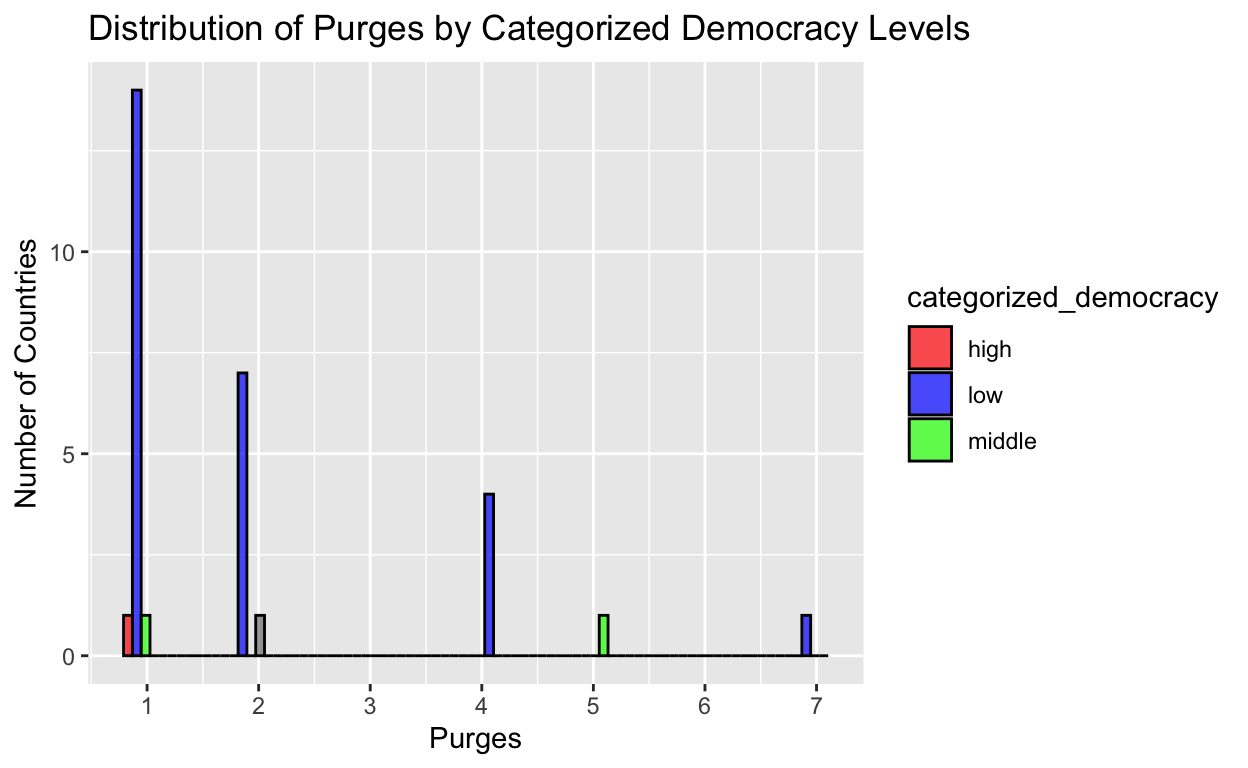
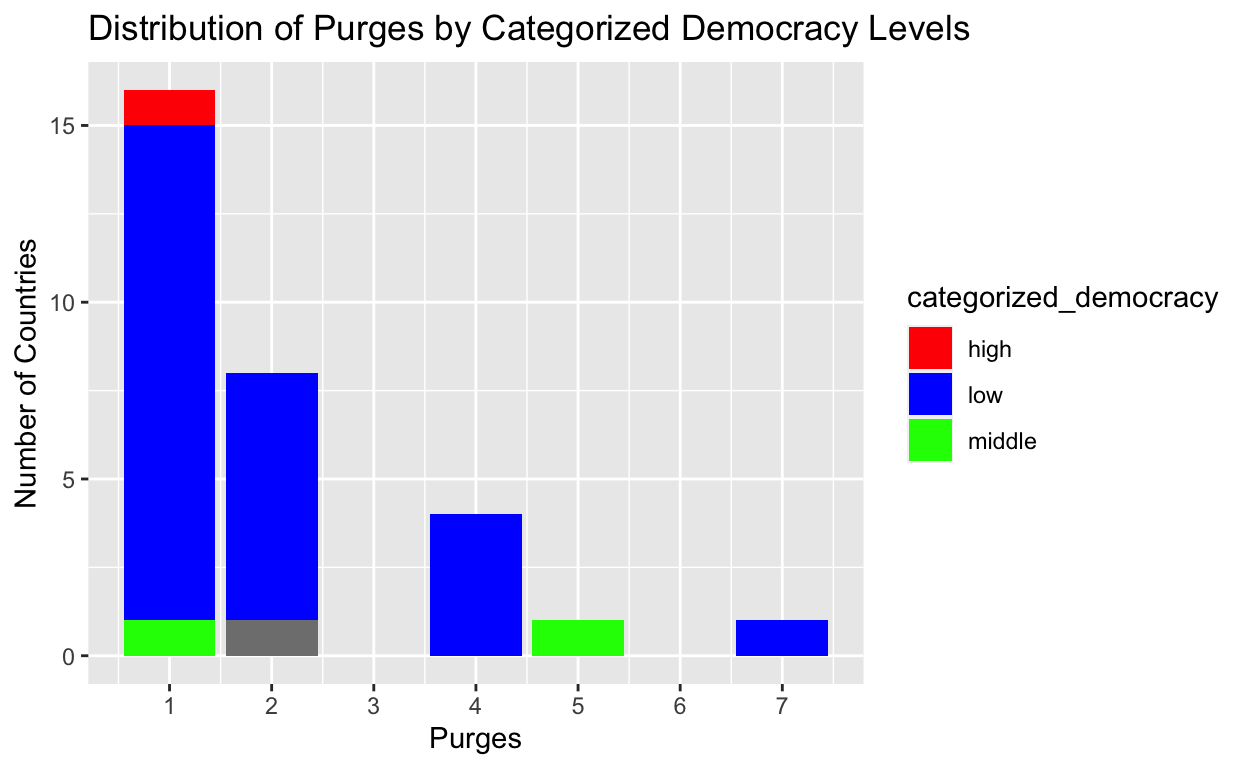
all answered

diff --git a/index.html b/index.html
@@ -115,7 +115,7 @@ code span.wa { color: #5e5e5e; font-style: italic; } /* Warning */
   <!--/radix_placeholder_rmarkdown_metadata-->
   
   <script type="text/json" id="radix-resource-manifest">
-  {"type":"character","attributes":{},"value":["index_files/anchor-4.2.2/anchor.min.js","index_files/bowser-1.9.3/bowser.min.js","index_files/distill-2.2.21/template.v2.js","index_files/figure-html5/unnamed-chunk-1-1.png","index_files/header-attrs-2.17/header-attrs.js","index_files/header-attrs-2.24/header-attrs.js","index_files/jquery-3.6.0/jquery-3.6.0.js","index_files/jquery-3.6.0/jquery-3.6.0.min.js","index_files/jquery-3.6.0/jquery-3.6.0.min.map","index_files/popper-2.6.0/popper.min.js","index_files/tippy-6.2.7/tippy-bundle.umd.min.js","index_files/tippy-6.2.7/tippy-light-border.css","index_files/tippy-6.2.7/tippy.css","index_files/tippy-6.2.7/tippy.umd.min.js","index_files/webcomponents-2.0.0/webcomponents.js"]}
+  {"type":"character","attributes":{},"value":["index_files/anchor-4.2.2/anchor.min.js","index_files/bowser-1.9.3/bowser.min.js","index_files/distill-2.2.21/template.v2.js","index_files/figure-html5/unnamed-chunk-1-1.png","index_files/figure-html5/unnamed-chunk-2-1.png","index_files/header-attrs-2.17/header-attrs.js","index_files/header-attrs-2.24/header-attrs.js","index_files/jquery-3.6.0/jquery-3.6.0.js","index_files/jquery-3.6.0/jquery-3.6.0.min.js","index_files/jquery-3.6.0/jquery-3.6.0.min.map","index_files/popper-2.6.0/popper.min.js","index_files/tippy-6.2.7/tippy-bundle.umd.min.js","index_files/tippy-6.2.7/tippy-light-border.css","index_files/tippy-6.2.7/tippy.css","index_files/tippy-6.2.7/tippy.umd.min.js","index_files/webcomponents-2.0.0/webcomponents.js"]}
   </script>
   <!--radix_placeholder_navigation_in_header-->
   <!--/radix_placeholder_navigation_in_header-->
@@ -1517,9 +1517,9 @@ code span.wa { color: #5e5e5e; font-style: italic; } /* Warning */
 </div>
 
 <div class="d-article">
-<p>##Project Proposal</p>
-<p>Does the level of democracy in a country influence its propensity for political violence? In this study I plan to explore the relationship between the level of democracy in a specific country and its engagement in political violence. I hypothesize that less democratic countries are more prone to political violence, as they are less likely to control radical political expression and violent extremists have more room to operate, potentially leading to higher levels of civil unrest, protests, and violent conflicts. When countries are democratic and free, they are safer and more prosperous as citizens are less likely to retaliate against the government since they have control over their lives and work. My sample is composed of a selection of countries from various regions and with varying degrees of democracy. The explanatory variable of interest is the level of democracy, which will be measured using the Freedom of the World Dataset (2023). F = Free, NF = Not Free, PF = Partially Free. The outcome variable is the incidence of political violence in a given country, measured as the number of purges, revolutions, riots and death from political violence. This variable is measured using the Political Violence data set (violence.csv). If there is a significant and positive correlation between lower ranges of democracy and higher rates of political violence then it would support my hypothesis as it would suggest that political violence is more common in countries that are less democratic. On the other hand, if there is no significant relationship between lower levels of democracy and higher rates of political violence, this would provide evidence against my hypothesis.</p>
-<h2 id="data-visualization">Data Visualization</h2>
+<h2 id="milestone-1-project-proposal">Milestone 1: Project Proposal</h2>
+<p>Does the level of democracy in a country influence its propensity for political violence? In this study I plan to explore the relationship between the level of democracy in a specific country and its engagement in political violence. I hypothesize that less democratic countries are more prone to political violence, as they are less likely to control radical political expression and violent extremists have more room to operate, potentially leading to higher levels of civil unrest, protests, and violent conflicts. When countries are democratic and free, they are safer and more prosperous as citizens are less likely to retaliate against the government since they have control over their lives and work. My sample is composed of a selection of countries from various regions and with varying degrees of democracy. The explanatory variable of interest is the level of democracy, which will be measured using the Political Violence data set (violence.csv). The scale of democracy is measured from 1-7 with 7 being the lowest level of democracy and 1 being the highest. The outcome variable is the incidence of political violence in a given country, measured as the number of purges, revolutions, riots and death from political violence. This variable is measured using the Political Violence data set (violence.csv). If there is a significant and positive correlation between lower ranges of democracy and higher rates of political violence then it would support my hypothesis as it would suggest that political violence is more common in countries that are less democratic. On the other hand, if there is no significant relationship between lower levels of democracy and higher rates of political violence, this would provide evidence against my hypothesis.</p>
+<h2 id="milestone-3-data-visualization">Milestone 3: Data Visualization</h2>
 <div class="layout-chunk" data-layout="l-body">
 <div class="sourceCode">
 <pre class="sourceCode r"><code class="sourceCode r"><span><span class='kw'><a href='https://rdrr.io/r/base/library.html'>library</a></span><span class='op'>(</span><span class='va'><a href='https://tidyverse.tidyverse.org'>tidyverse</a></span><span class='op'>)</span></span>
@@ -1535,22 +1535,74 @@ code span.wa { color: #5e5e5e; font-style: italic; } /* Warning */
 <span>   <span class='fu'><a href='https://dplyr.tidyverse.org/reference/mutate.html'>mutate</a></span><span class='op'>(</span>purges <span class='op'>=</span> <span class='va'>purges80</span> <span class='op'>+</span> <span class='va'>purges70</span> <span class='op'>+</span> <span class='va'>purges60</span><span class='op'>)</span></span>
 <span></span>
 <span><span class='va'>graph1</span><span class='op'>&lt;-</span> <span class='va'>violence_data</span><span class='op'>|&gt;</span></span>
-<span>  <span class='fu'><a href='https://dplyr.tidyverse.org/reference/filter.html'>filter</a></span><span class='op'>(</span><span class='va'>purges</span> <span class='op'>&gt;</span> <span class='fl'>0</span><span class='op'>)</span><span class='op'>|&gt;</span></span>
-<span>  <span class='fu'><a href='https://ggplot2.tidyverse.org/reference/ggplot.html'>ggplot</a></span><span class='op'>(</span><span class='fu'><a href='https://ggplot2.tidyverse.org/reference/aes.html'>aes</a></span><span class='op'>(</span>x <span class='op'>=</span> <span class='va'>purges</span>, fill <span class='op'>=</span> <span class='va'>categorized_democracy</span><span class='op'>)</span><span class='op'>)</span> <span class='op'>+</span></span>
-<span>  <span class='fu'><a href='https://ggplot2.tidyverse.org/reference/geom_histogram.html'>geom_histogram</a></span><span class='op'>(</span>position <span class='op'>=</span> <span class='st'>"dodge"</span>, bins <span class='op'>=</span> <span class='fl'>20</span>, color <span class='op'>=</span> <span class='st'>"black"</span>, alpha <span class='op'>=</span> <span class='fl'>0.7</span><span class='op'>)</span> <span class='op'>+</span></span>
+<span>  <span class='fu'><a href='https://dplyr.tidyverse.org/reference/filter.html'>filter</a></span><span class='op'>(</span><span class='va'>purges</span> <span class='op'>&gt;</span> <span class='fl'>0</span><span class='op'>)</span> <span class='op'>|&gt;</span></span>
+<span> <span class='fu'><a href='https://ggplot2.tidyverse.org/reference/ggplot.html'>ggplot</a></span><span class='op'>(</span><span class='fu'><a href='https://ggplot2.tidyverse.org/reference/aes.html'>aes</a></span><span class='op'>(</span>x <span class='op'>=</span> <span class='va'>purges</span>, fill <span class='op'>=</span> <span class='va'>categorized_democracy</span><span class='op'>)</span><span class='op'>)</span> <span class='op'>+</span></span>
+<span>  <span class='fu'><a href='https://ggplot2.tidyverse.org/reference/geom_bar.html'>geom_bar</a></span><span class='op'>(</span><span class='op'>)</span> <span class='op'>+</span></span>
 <span>  <span class='fu'><a href='https://ggplot2.tidyverse.org/reference/labs.html'>labs</a></span><span class='op'>(</span>title <span class='op'>=</span> <span class='st'>"Distribution of Purges by Categorized Democracy Levels"</span>,</span>
 <span>       x <span class='op'>=</span> <span class='st'>"Purges"</span>,</span>
 <span>       y <span class='op'>=</span> <span class='st'>"Number of Countries"</span><span class='op'>)</span> <span class='op'>+</span></span>
 <span>  <span class='fu'><a href='https://ggplot2.tidyverse.org/reference/scale_manual.html'>scale_fill_manual</a></span><span class='op'>(</span>values <span class='op'>=</span> <span class='fu'><a href='https://rdrr.io/r/base/c.html'>c</a></span><span class='op'>(</span><span class='st'>"low"</span> <span class='op'>=</span> <span class='st'>"blue"</span>, <span class='st'>"middle"</span> <span class='op'>=</span> <span class='st'>"green"</span>, <span class='st'>"high"</span> <span class='op'>=</span> <span class='st'>"red"</span><span class='op'>)</span><span class='op'>)</span><span class='op'>+</span></span>
 <span>  <span class='fu'><a href='https://ggplot2.tidyverse.org/reference/scale_continuous.html'>scale_x_continuous</a></span><span class='op'>(</span>breaks <span class='op'>=</span> <span class='fl'>1</span><span class='op'>:</span><span class='fl'>8</span><span class='op'>)</span></span>
-<span></span>
 <span><span class='va'>graph1</span></span></code></pre>
 </div>
-<p><img src="index_files/figure-html5/unnamed-chunk-1-1.png" width="624" /></p>
+<img src="index_files/figure-html5/unnamed-chunk-1-1.png" width="624" />
+<div class="sourceCode">
+<pre class="sourceCode r"><code class="sourceCode r"><span><span class='va'>violence_data</span> <span class='op'>|&gt;</span></span>
+<span>  <span class='fu'><a href='https://dplyr.tidyverse.org/reference/filter.html'>filter</a></span><span class='op'>(</span><span class='va'>purges</span> <span class='op'>&gt;</span> <span class='fl'>0</span><span class='op'>)</span> <span class='op'>|&gt;</span></span>
+<span>  <span class='fu'><a href='https://dplyr.tidyverse.org/reference/group_by.html'>group_by</a></span><span class='op'>(</span><span class='va'>purges</span><span class='op'>)</span> <span class='op'>|&gt;</span></span>
+<span>  <span class='fu'><a href='https://dplyr.tidyverse.org/reference/summarise.html'>summarize</a></span><span class='op'>(</span>count <span class='op'>=</span> <span class='fu'><a href='https://dplyr.tidyverse.org/reference/context.html'>n</a></span><span class='op'>(</span><span class='op'>)</span><span class='op'>)</span></span></code></pre>
 </div>
-<p>For my visualization, I decided to categorize countries according to their level of democracy and asses how often these countries purge their citizens. The scale of democracy is measured from 1-7 with 7 being the lowest level of democracy and 1 being the highest. Using this scale, I segmented countries into “low” “middle” and “high” based on their levels of democracy. On the x axis we observe the frequency of purges within these countries, while the y axis represents the count of countries engaging in this practice. As seen in the histogram above, we notice that typically, less democratic countries tend to engage more frequently in the purging of their citizens. Nevertheless it’s noteworthy that most countries in general, irrespective of their democratic standing, typically refrain from purging their citizens. In this positively skewed histogram we see that most countries are concentrated towards the lower values of purges (between 1-2 purges).</p>
+<pre><code># A tibble: 5 × 2
+  purges count
+   &lt;int&gt; &lt;int&gt;
+1      1    16
+2      2     8
+3      4     4
+4      5     1
+5      7     1</code></pre>
+</div>
+<p>For my visualization, I decided to categorize countries according to their level of democracy and asses how often these countries purge their citizens. The scale of democracy is measured from 1-7 with 7 being the lowest level of democracy and 1 being the highest. Using this scale, I segmented countries into “low” “middle” and “high” based on their levels of democracy. On the x axis we observe the frequency of purges within these countries, while the y axis represents the count of countries engaging in this practice. As seen in the stacked bar chart above, we notice that typically, less democratic countries tend to engage more frequently in the purging of their citizens. Nevertheless it’s noteworthy that most countries in general, irrespective of their democratic standing, typically refrain from purging their citizens. In this positively skewed histogram we see that most countries are concentrated towards the lower values of purges (between 1-2 purges).</p>
 <p>Dataset used: violence.csv</p>
-<div class="sourceCode" id="cb1"><pre class="sourceCode r distill-force-highlighting-css"><code class="sourceCode r"></code></pre></div>
+<h1 id="milestone-4-2nd-data-visualization-analysis">Milestone 4 (2nd data visualization + analysis)</h1>
+<div class="layout-chunk" data-layout="l-body">
+<div class="sourceCode">
+<pre class="sourceCode r"><code class="sourceCode r"><span><span class='kw'><a href='https://rdrr.io/r/base/library.html'>library</a></span><span class='op'>(</span><span class='va'><a href='https://tidyverse.tidyverse.org'>tidyverse</a></span><span class='op'>)</span></span>
+<span><span class='kw'><a href='https://rdrr.io/r/base/library.html'>library</a></span><span class='op'>(</span><span class='va'><a href='https://ggplot2.tidyverse.org'>ggplot2</a></span><span class='op'>)</span></span>
+<span><span class='kw'><a href='https://rdrr.io/r/base/library.html'>library</a></span><span class='op'>(</span><span class='va'><a href='https://dplyr.tidyverse.org'>dplyr</a></span><span class='op'>)</span></span>
+<span><span class='va'>violence_data</span> <span class='op'>&lt;-</span> <span class='fu'><a href='https://rdrr.io/r/utils/read.table.html'>read.csv</a></span><span class='op'>(</span><span class='st'>"~/Downloads/violence.csv"</span>, header<span class='op'>=</span><span class='cn'>TRUE</span><span class='op'>)</span></span>
+<span><span class='va'>violence_data</span> <span class='op'>&lt;-</span> <span class='va'>violence_data</span> <span class='op'>|&gt;</span></span>
+<span>  <span class='fu'><a href='https://dplyr.tidyverse.org/reference/mutate.html'>mutate</a></span><span class='op'>(</span>democracy <span class='op'>=</span> <span class='va'>democ80</span>, <span class='va'>democ70</span>, <span class='va'>democ60</span><span class='op'>)</span> <span class='op'>|&gt;</span></span>
+<span>   <span class='fu'><a href='https://dplyr.tidyverse.org/reference/mutate.html'>mutate</a></span><span class='op'>(</span>deaths <span class='op'>=</span> <span class='va'>deathsPC80</span>, <span class='va'>deathsPC60</span>, <span class='va'>deathsPC80</span><span class='op'>)</span></span>
+<span></span>
+<span><span class='va'>scatterplot1</span><span class='op'>&lt;-</span> <span class='va'>violence_data</span><span class='op'>|&gt;</span></span>
+<span>  <span class='fu'><a href='https://dplyr.tidyverse.org/reference/filter.html'>filter</a></span><span class='op'>(</span><span class='va'>deaths</span> <span class='op'>&gt;</span> <span class='fl'>0</span><span class='op'>)</span><span class='op'>|&gt;</span></span>
+<span> <span class='fu'><a href='https://ggplot2.tidyverse.org/reference/ggplot.html'>ggplot</a></span><span class='op'>(</span><span class='va'>violence_data</span>, mapping <span class='op'>=</span> <span class='fu'><a href='https://ggplot2.tidyverse.org/reference/aes.html'>aes</a></span><span class='op'>(</span>x <span class='op'>=</span> <span class='va'>democracy</span>, y <span class='op'>=</span> <span class='va'>deaths</span><span class='op'>)</span><span class='op'>)</span> <span class='op'>+</span></span>
+<span>  <span class='fu'><a href='https://ggplot2.tidyverse.org/reference/geom_point.html'>geom_point</a></span><span class='op'>(</span><span class='fu'><a href='https://ggplot2.tidyverse.org/reference/aes.html'>aes</a></span><span class='op'>(</span>alpha <span class='op'>=</span> <span class='fl'>0.05</span><span class='op'>)</span><span class='op'>)</span> <span class='op'>+</span></span>
+<span>  <span class='fu'><a href='https://ggplot2.tidyverse.org/reference/labs.html'>labs</a></span><span class='op'>(</span></span>
+<span>    x <span class='op'>=</span> <span class='st'>"Levels of Democracy"</span>,</span>
+<span>    y <span class='op'>=</span> <span class='st'>"Deaths from Political Violence (in M)"</span>,</span>
+<span>    title <span class='op'>=</span> <span class='st'>"The relationship between Democracy &amp; Deaths"</span><span class='op'>)</span> <span class='op'>+</span> </span>
+<span><span class='fu'><a href='https://ggplot2.tidyverse.org/reference/geom_smooth.html'>geom_smooth</a></span><span class='op'>(</span>method <span class='op'>=</span> <span class='st'>"lm"</span>, se <span class='op'>=</span> <span class='cn'>FALSE</span>, color <span class='op'>=</span> <span class='st'>"indianred1"</span>, size <span class='op'>=</span> <span class='fl'>1</span><span class='op'>)</span> </span>
+<span><span class='va'>scatterplot1</span></span></code></pre>
+</div>
+<p><img src="index_files/figure-html5/unnamed-chunk-2-1.png" width="624" /></p>
+</div>
+<p>The above visualization demonstrates the relationship between levels of democracy and the number of deaths from political violence. There seems to be a positive correlation between the independent and dependent variables, according to the straight line of best fit (in red). <em>Note that the scale of democracy is measured from 1-7 with 7 being the lowest level of democracy and 1 being the highest</em>. With that said, countries that are less democratic are more likely to incite violence towards their citizens, resulting in death.</p>
+<div class="layout-chunk" data-layout="l-body">
+<div class="sourceCode">
+<pre class="sourceCode r"><code class="sourceCode r"><span><span class='va'>fit</span> <span class='op'>&lt;-</span> <span class='fu'><a href='https://rdrr.io/r/stats/lm.html'>lm</a></span><span class='op'>(</span><span class='va'>deaths</span> <span class='op'>~</span> <span class='va'>democracy</span>, data <span class='op'>=</span> <span class='va'>violence_data</span><span class='op'>)</span></span>
+<span><span class='va'>fit</span></span></code></pre>
+</div>
+<pre><code>
+Call:
+lm(formula = deaths ~ democracy, data = violence_data)
+
+Coefficients:
+(Intercept)    democracy  
+  0.0257547    0.0004641  </code></pre>
+</div>
+<p>Interpretation: On average, 1 unit increase in the level democracy roughly correlates with a 0.004 M increase in the number of deaths from political violence (about 4,000 deaths). <em>Note that the scale of democracy is measured from 1-7 with 7 being the lowest level of democracy and 1 being the highest</em>. With that said, a one unit “decrease” in democracy will result in about 4,000 deaths.</p>
+<div class="sourceCode" id="cb3"><pre class="sourceCode r distill-force-highlighting-css"><code class="sourceCode r"></code></pre></div>
 <!--radix_placeholder_article_footer-->
 <!--/radix_placeholder_article_footer-->
 </div>
